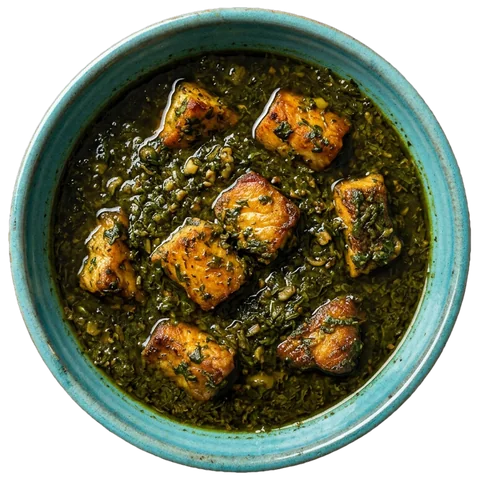
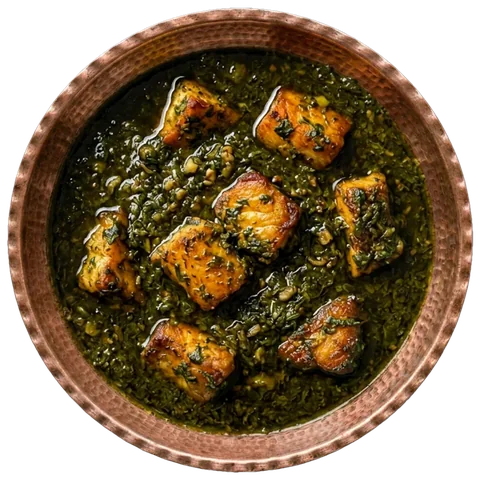
v27: بشقابهای مسی یکدست — ۱۰ غذای کبابها و خورشها و قالیهماهی حالا روی همان بشقابِ مسِ گردِ چکشخوردهٔ پلوها و چلوها نشستهاند (۶ قلم باقیمانده در گام بعد)

diff --git a/menu.html b/menu.html
@@ -93,8 +93,8 @@
 <article class="dish reveal" data-cat="kabab">
       <div class="dish-media">
         <div class="window"><div class="glass">
-          <img src="assets/img/dish-kubideh-480.webp"
-               srcset="assets/img/dish-kubideh-480.webp 480w, assets/img/dish-kubideh-880.webp 880w"
+          <img src="assets/img/dish-kubideh-480.webp?v=27"
+               srcset="assets/img/dish-kubideh-480.webp?v=27 480w, assets/img/dish-kubideh-880.webp?v=27 880w"
                sizes="(max-width: 700px) 86vw, 340px"
                alt="چلوکباب کوبیده: دو سیخ کوبیدهی گوشت بر چلوی زعفرانی با گوجهی کبابی" loading="lazy">
         </div>
@@ -150,8 +150,8 @@
 <article class="dish reveal" data-cat="kabab">
       <div class="dish-media">
         <div class="window"><div class="glass">
-          <img src="assets/img/dish-shishlik-480.webp"
-               srcset="assets/img/dish-shishlik-480.webp 480w, assets/img/dish-shishlik-880.webp 880w"
+          <img src="assets/img/dish-shishlik-480.webp?v=27"
+               srcset="assets/img/dish-shishlik-480.webp?v=27 480w, assets/img/dish-shishlik-880.webp?v=27 880w"
                sizes="(max-width: 700px) 86vw, 340px"
                alt="شیشلیک: سیخهای دندهی بره زغالی بر چلوی زعفرانی" loading="lazy">
         </div>
@@ -188,8 +188,8 @@
 <article class="dish reveal" data-cat="kabab">
       <div class="dish-media">
         <div class="window"><div class="glass">
-          <img src="assets/img/dish-torsh-480.webp"
-               srcset="assets/img/dish-torsh-480.webp 480w, assets/img/dish-torsh-880.webp 880w"
+          <img src="assets/img/dish-torsh-480.webp?v=27"
+               srcset="assets/img/dish-torsh-480.webp?v=27 480w, assets/img/dish-torsh-880.webp?v=27 880w"
                sizes="(max-width: 700px) 86vw, 340px"
                alt="کباب ترش گیلانی: کباب با سس رب انار و گردو و سبزی" loading="lazy">
         </div>
@@ -255,8 +255,8 @@
 <article class="dish reveal" data-cat="khoresh">
       <div class="dish-media">
         <div class="window"><div class="glass">
-          <img src="assets/img/dish-ghormeh-480.webp"
-             srcset="assets/img/dish-ghormeh-480.webp 480w, assets/img/dish-ghormeh-880.webp 880w"
+          <img src="assets/img/dish-ghormeh-480.webp?v=27"
+             srcset="assets/img/dish-ghormeh-480.webp?v=27 480w, assets/img/dish-ghormeh-880.webp?v=27 880w"
              sizes="(max-width: 700px) 86vw, 340px"
              alt="قورمهسبزی با سبزی سرخشده، لوبیا قرمز و لیموعمانی، همراه چلو و سالاد شیرازی" loading="lazy">
         </div>
@@ -274,8 +274,8 @@
 <article class="dish reveal" data-cat="khoresh">
       <div class="dish-media">
         <div class="window"><div class="glass">
-          <img src="assets/img/dish-gheymeh-480.webp"
-               srcset="assets/img/dish-gheymeh-480.webp 480w, assets/img/dish-gheymeh-880.webp 880w"
+          <img src="assets/img/dish-gheymeh-480.webp?v=27"
+               srcset="assets/img/dish-gheymeh-480.webp?v=27 480w, assets/img/dish-gheymeh-880.webp?v=27 880w"
                sizes="(max-width: 700px) 86vw, 340px"
                alt="خورش قیمه: خورشت لپه و گوشت با سیبزمینی سرخکرده و زعفران" loading="lazy">
         </div>
@@ -293,8 +293,8 @@
 <article class="dish reveal" data-cat="khoresh">
       <div class="dish-media">
         <div class="window"><div class="glass">
-          <img src="assets/img/dish-fesenjan-480.webp"
-             srcset="assets/img/dish-fesenjan-480.webp 480w, assets/img/dish-fesenjan-880.webp 880w"
+          <img src="assets/img/dish-fesenjan-480.webp?v=27"
+             srcset="assets/img/dish-fesenjan-480.webp?v=27 480w, assets/img/dish-fesenjan-880.webp?v=27 880w"
              sizes="(max-width: 700px) 86vw, 340px"
              alt="خورش فسنجان با گردوی ساییده و رب انار، آراسته با دانههای انار و مغز گردو" loading="lazy">
         </div>
@@ -332,8 +332,8 @@
 <article class="dish reveal" data-cat="khoresh">
       <div class="dish-media">
         <div class="window"><div class="glass">
-          <img src="assets/img/dish-beh-480.webp"
-               srcset="assets/img/dish-beh-480.webp 480w, assets/img/dish-beh-880.webp 880w"
+          <img src="assets/img/dish-beh-480.webp?v=27"
+               srcset="assets/img/dish-beh-480.webp?v=27 480w, assets/img/dish-beh-880.webp?v=27 880w"
                sizes="(max-width: 700px) 86vw, 340px"
                alt="خورش به: تکههای به و مرغ در سس زعفرانی" loading="lazy">
         </div>
@@ -351,8 +351,8 @@
 <article class="dish reveal" data-cat="khoresh">
       <div class="dish-media">
         <div class="window"><div class="glass">
-          <img src="assets/img/dish-kerefs-480.webp"
-               srcset="assets/img/dish-kerefs-480.webp 480w, assets/img/dish-kerefs-880.webp 880w"
+          <img src="assets/img/dish-kerefs-480.webp?v=27"
+               srcset="assets/img/dish-kerefs-480.webp?v=27 480w, assets/img/dish-kerefs-880.webp?v=27 880w"
                sizes="(max-width: 700px) 86vw, 340px"
                alt="خورش کرفس: کرفس و گوشت در سس سبزی" loading="lazy">
         </div>
@@ -370,8 +370,8 @@
 <article class="dish reveal" data-cat="khoresh">
       <div class="dish-media">
         <div class="window"><div class="glass">
-          <img src="assets/img/dish-alooesfenaj-480.webp"
-               srcset="assets/img/dish-alooesfenaj-480.webp 480w, assets/img/dish-alooesfenaj-880.webp 880w"
+          <img src="assets/img/dish-alooesfenaj-480.webp?v=27"
+               srcset="assets/img/dish-alooesfenaj-480.webp?v=27 480w, assets/img/dish-alooesfenaj-880.webp?v=27 880w"
                sizes="(max-width: 700px) 86vw, 340px"
                alt="آلو اسفناج: خورش اسفناج و آلو با گوشت" loading="lazy">
         </div>
@@ -389,8 +389,8 @@
 <article class="dish reveal" data-cat="khoresh">
       <div class="dish-media">
         <div class="window"><div class="glass">
-          <img src="assets/img/dish-ghaliehmahi-480.webp"
-               srcset="assets/img/dish-ghaliehmahi-480.webp 480w, assets/img/dish-ghaliehmahi-880.webp 880w"
+          <img src="assets/img/dish-ghaliehmahi-480.webp?v=27"
+               srcset="assets/img/dish-ghaliehmahi-480.webp?v=27 480w, assets/img/dish-ghaliehmahi-880.webp?v=27 880w"
                sizes="(max-width: 700px) 86vw, 340px"
                alt="قالیهی ماهی: خورش سبزی و ماهی جنوب با تمر هندی" loading="lazy">
         </div>

diff --git a/_tools/build_replate.py b/_tools/build_replate.py
@@ -1,0 +1,18 @@
+# -*- coding: utf-8 -*-
+"""برش تصویرهای بازبشقابشده و رونویسی webp های منو (با همان تابع cutout)."""
+import io, sys
+from pathlib import Path
+import numpy as np, cv2
+from PIL import Image
+
+HERE = Path(__file__).parent
+src = io.open(HERE / "build_images.py", encoding="utf-8").read()
+code = src[src.index("def _lin"): src.index("if __name__")]
+ROOT = HERE.parent
+RAW, OUT = ROOT / "_raw", ROOT / "assets" / "img"
+ns = dict(np=np, cv2=cv2, Image=Image, ROOT=ROOT, RAW=RAW, OUT=OUT, Path=Path)
+exec(code, ns)
+cutout = ns["cutout"]
+
+for k in sys.argv[1:]:
+    cutout(f"replate-{k}.png", f"dish-{k}")
